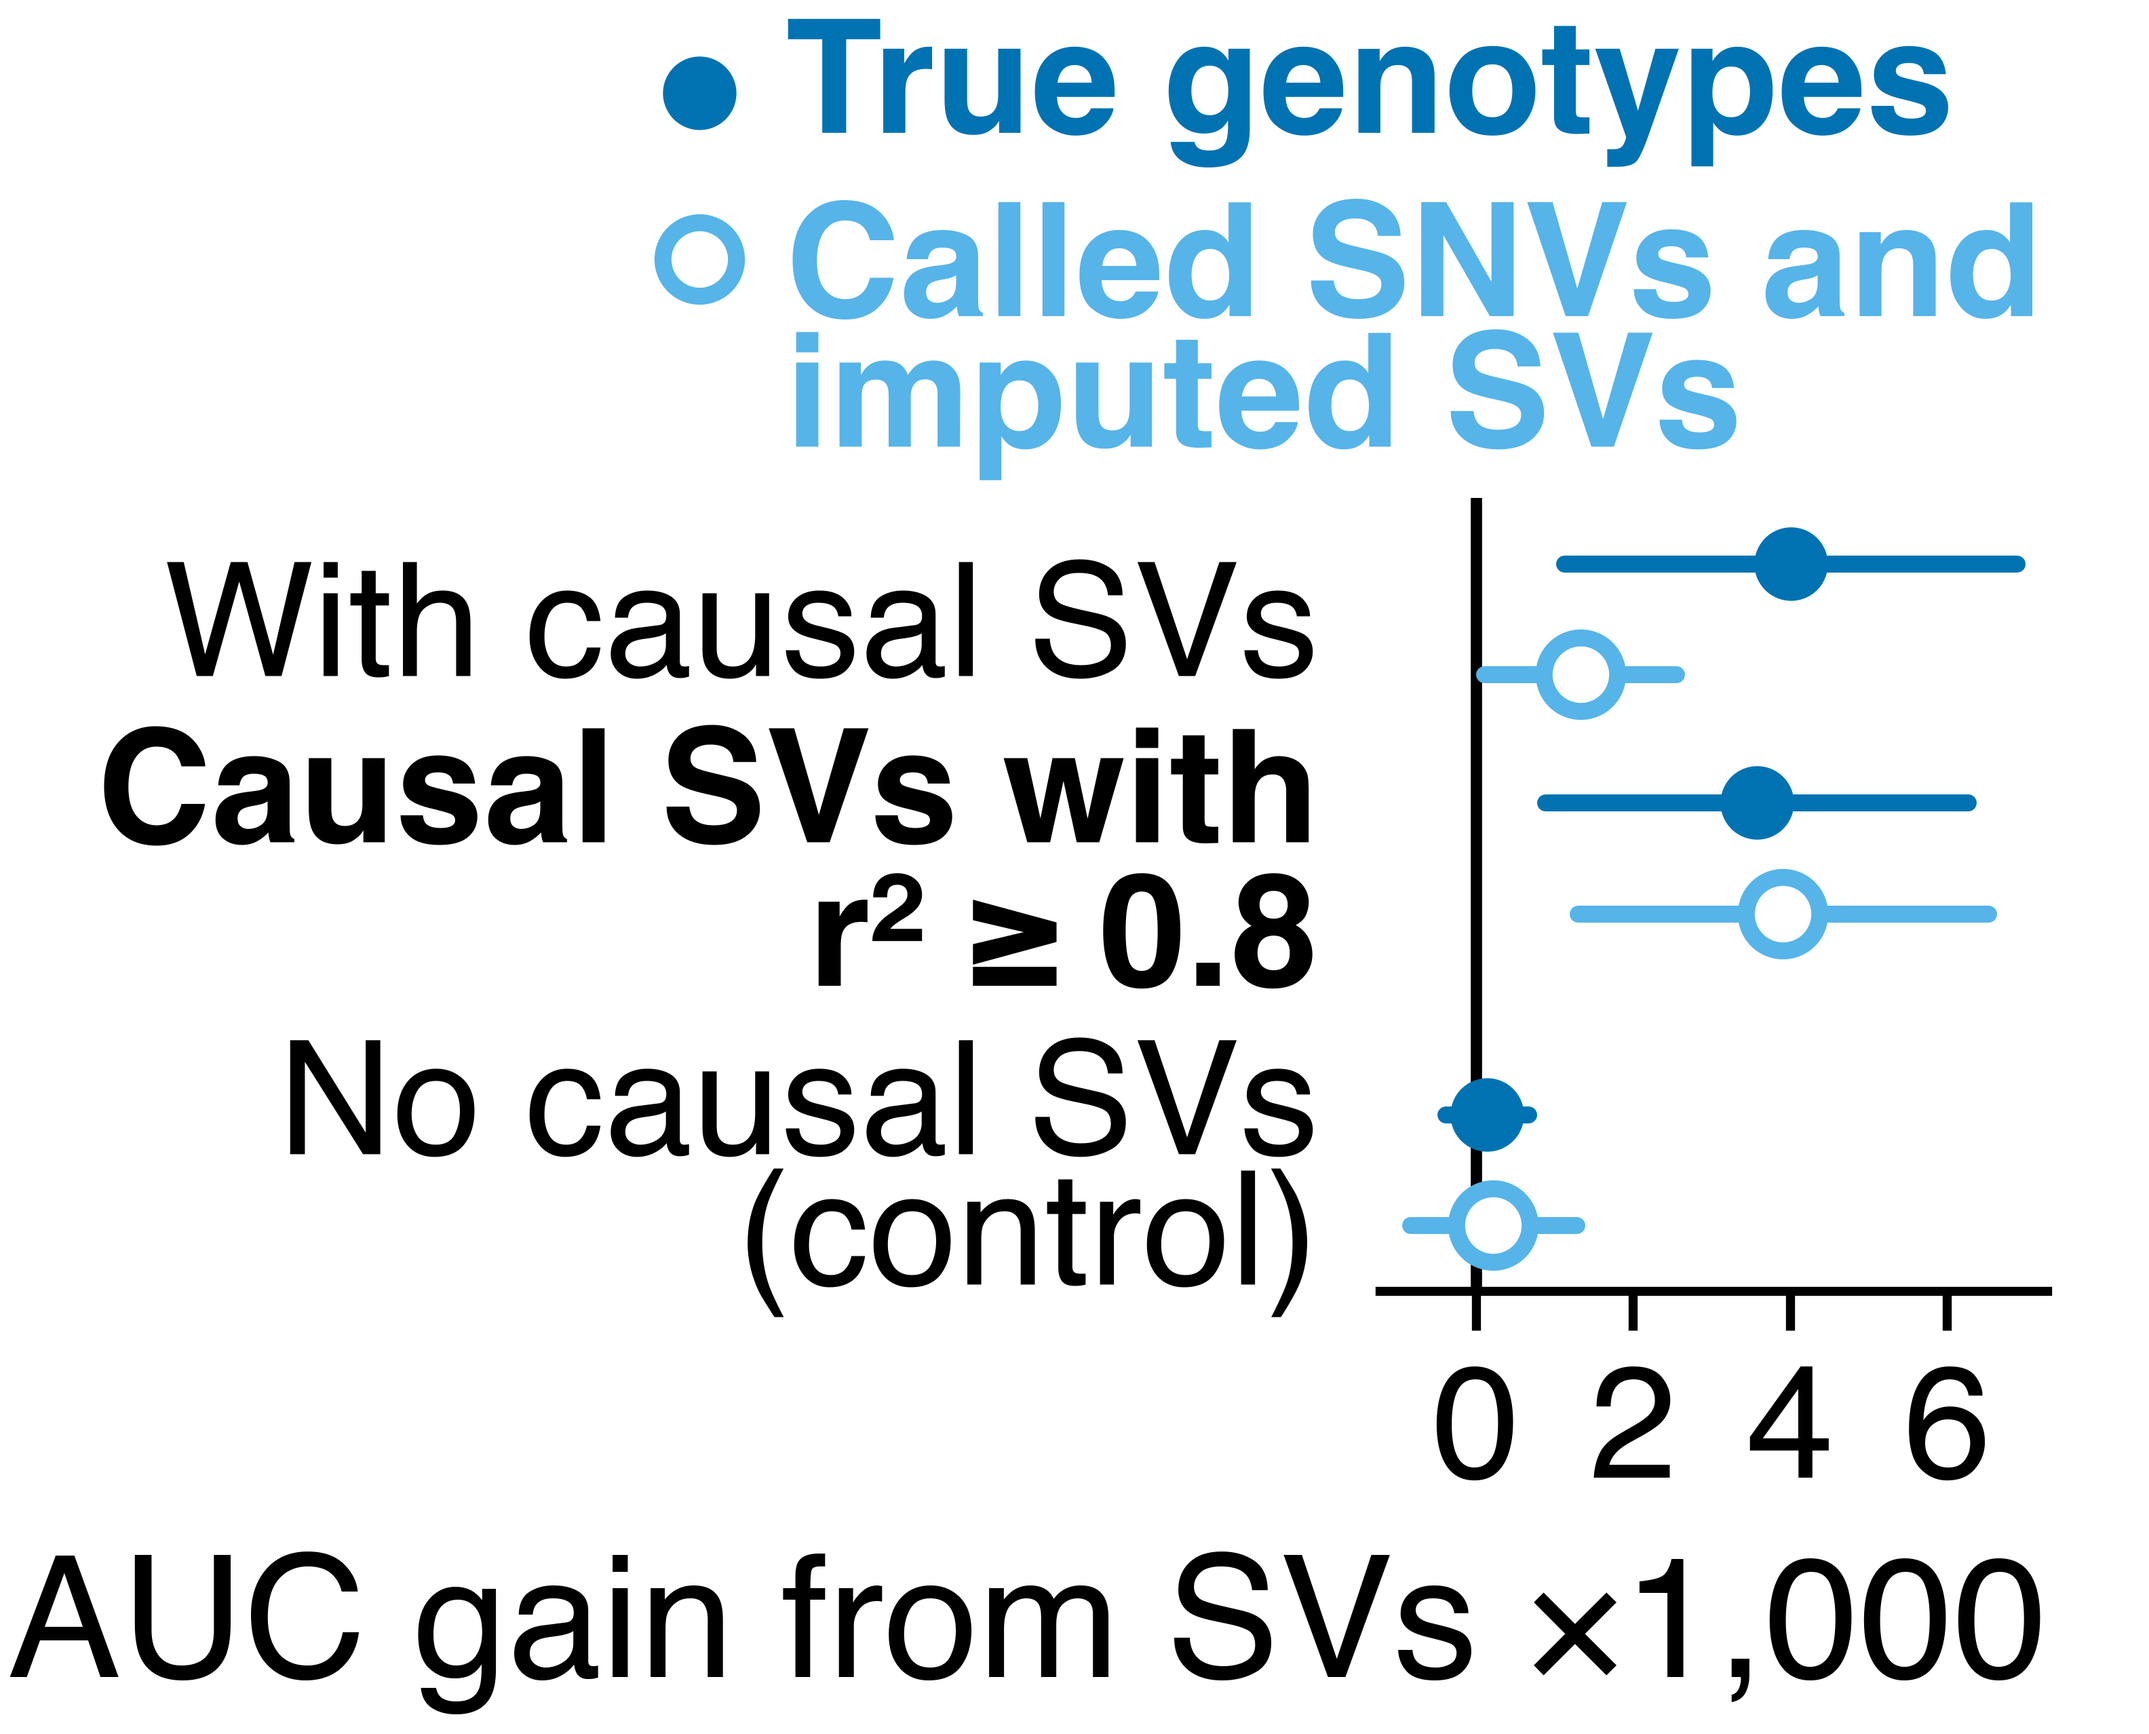
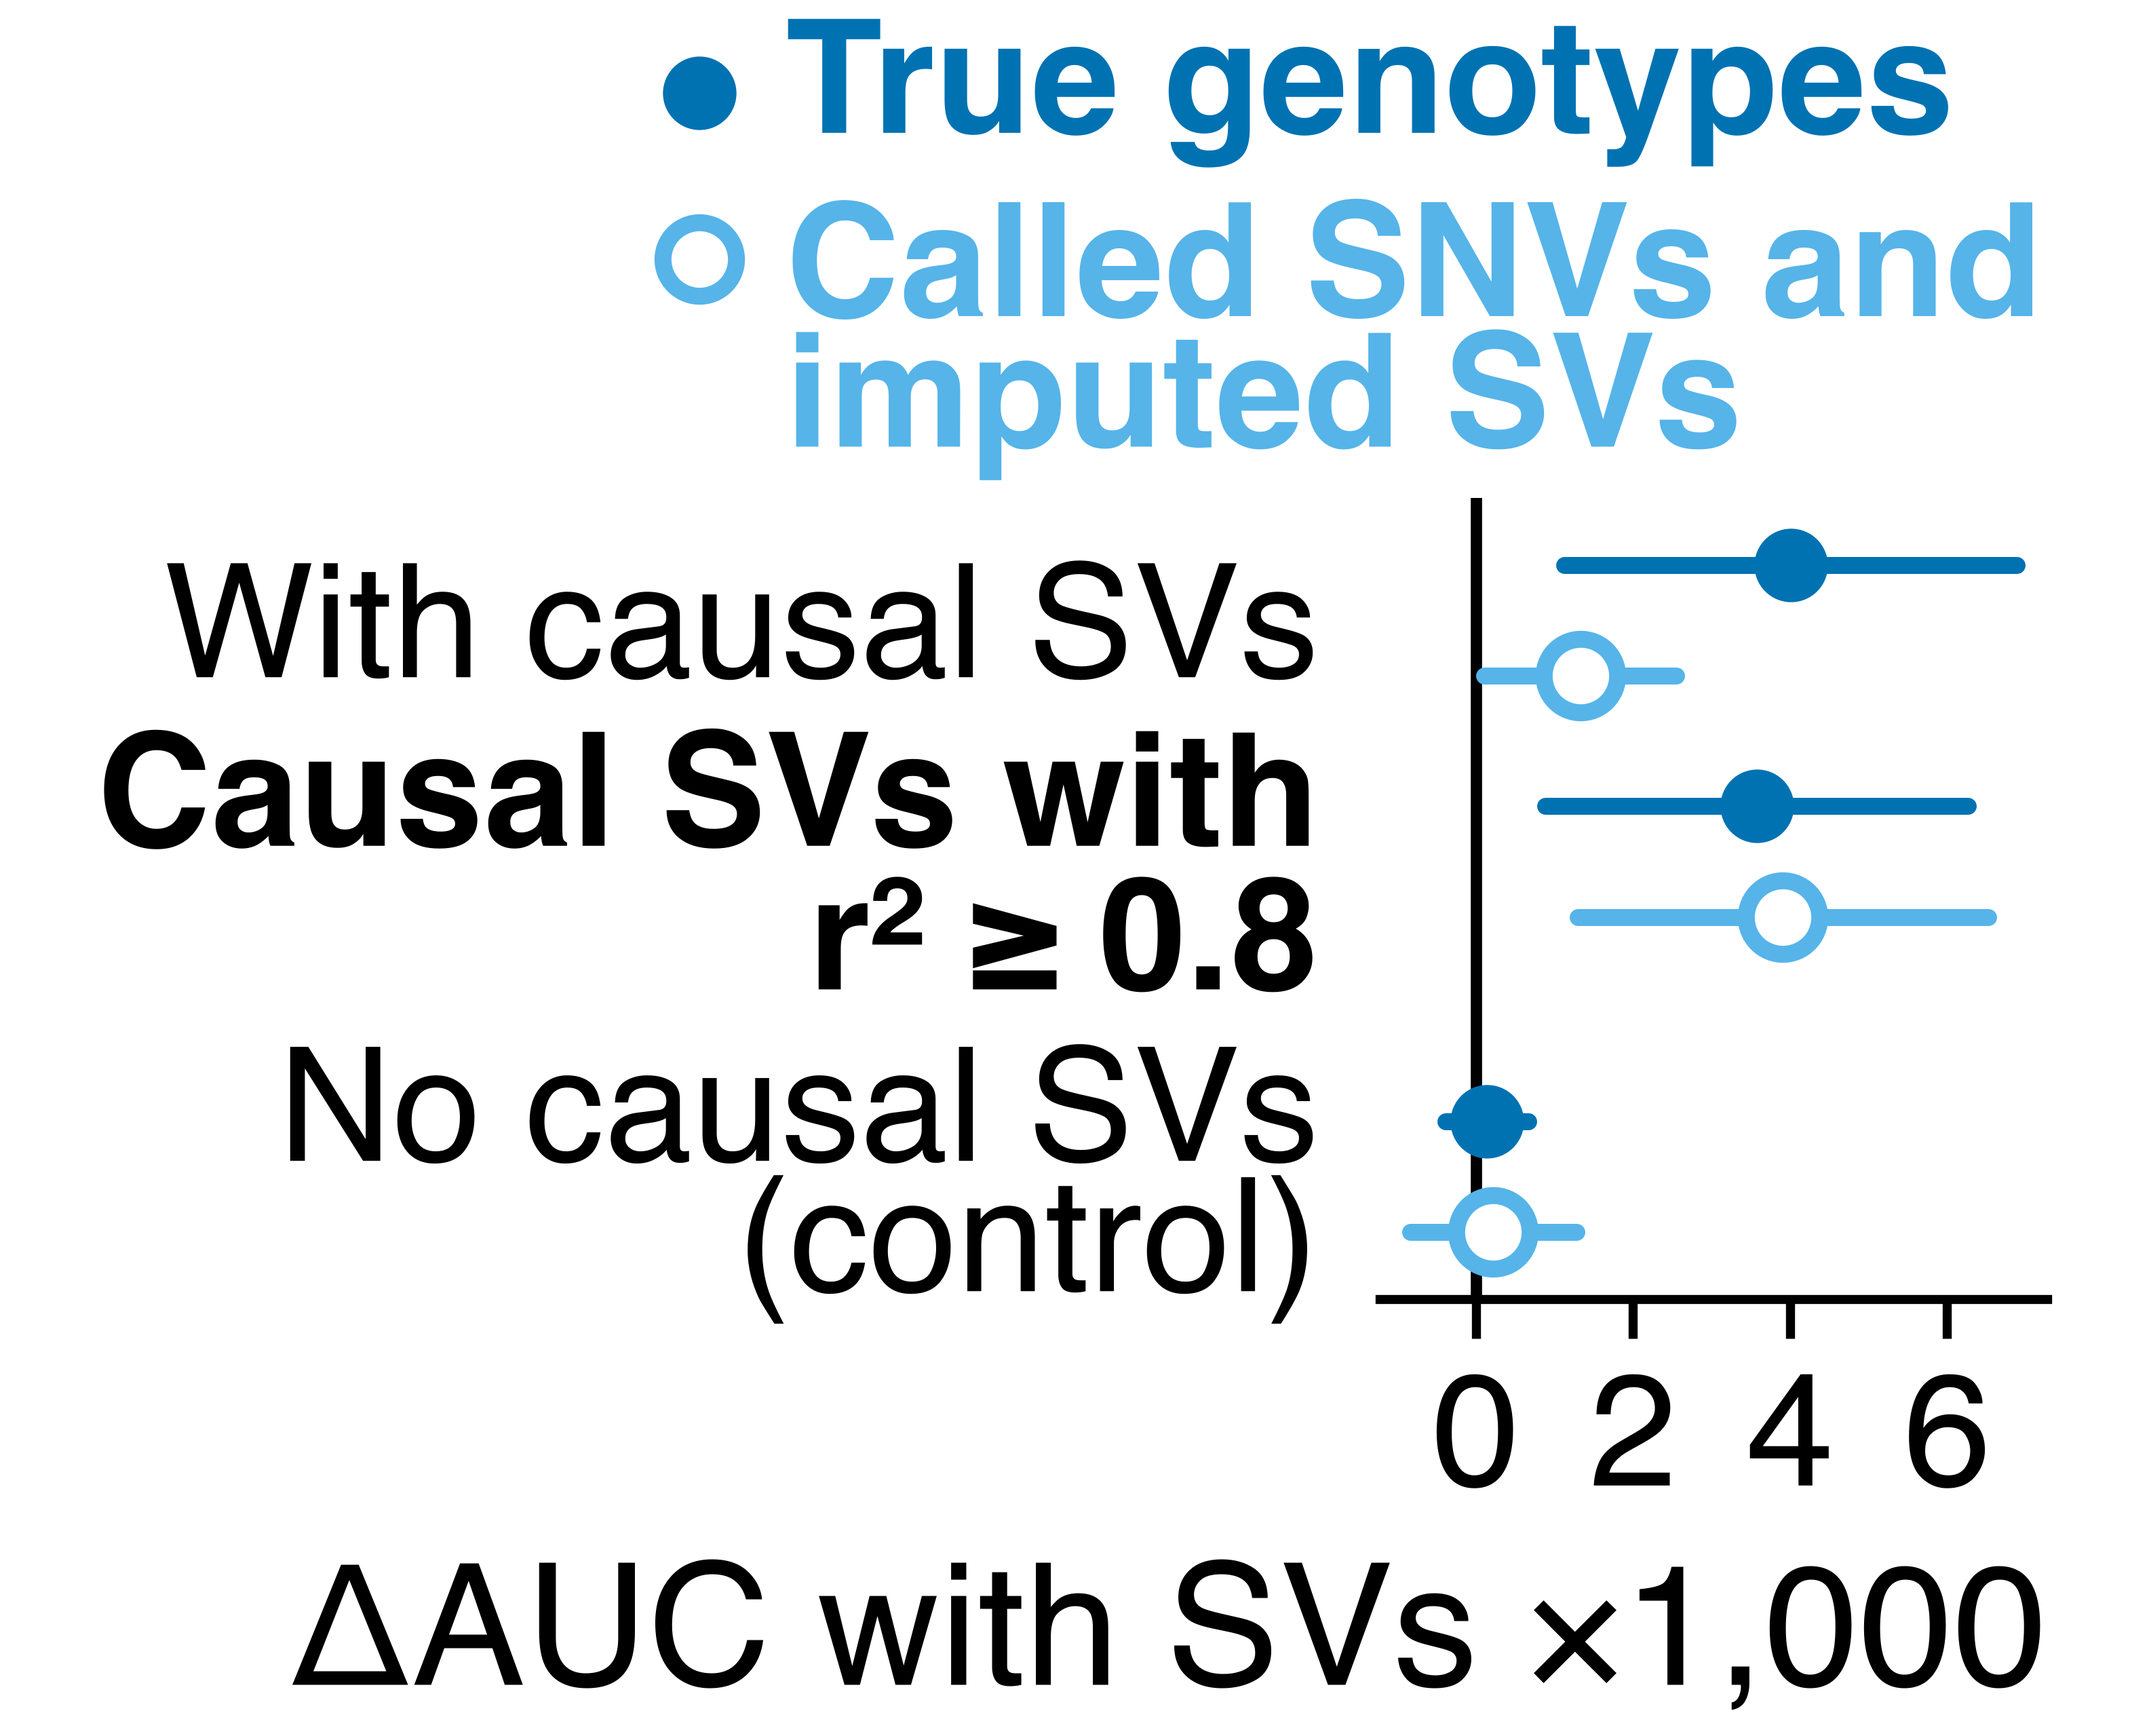
Discussion bullet 3 states the All of Us overall estimate, then its reading as a second sentence: "In All of Us, imputed SVs changed r² by +0.03% (95% CI −0.11 to 0.17%) across 5 traits. These traits may have few SVs with large effects or poorly imputed causal SVs." (docs/poster/ashg2026/build_pptx.
The simulation SV-gain forest labels its ticks as the gain times 1,000 (sim_gallery.py GAIN_SCALE), with the step chosen from each label's own width. Its 3.3 in axis now shows four ticks (0, 2, 4, 6) where it showed only "0". The tests follow the new bullet. test_poster_figures still has six failures in the All of Us figure tests, whose figure another agent is restructuring.

Claude-Session: https://claude.ai/code/session_01XTX1JUgLVteQ3pwSnr9aa6

diff --git a/tests/test_poster_figures.py b/tests/test_poster_figures.py
@@ -366,6 +366,6 @@ def test_the_discussion_states_the_common_all_of_us_gain_only_when_it_is_given(m
     (tmp_path / "aou_numbers.json").write_text(json.dumps({"matched": {"rows": [], "common": {
         "relative": -2.0, "relative_lower": -4.0, "relative_upper": 0.5, "relative_bound": 0.1, "traits": 10}}}))
     # the primary's common g with its 95% interval
-    assert build_pptx.aou_result() == ["In All of Us, imputed SVs changed r² by −2.00% (95% CI −4.00 to 0.50%) over "
-                                       "10 traits, so these traits have few SVs with large effects or poorly imputed "
-                                       "causal SVs."]
+    assert build_pptx.aou_result() == ["In All of Us, imputed SVs changed r² by −2.00% (95% CI −4.00 to 0.50%) "
+                                       "across 10 traits. These traits may have few SVs with large effects or poorly "
+                                       "imputed causal SVs."]

diff --git a/docs/poster/ashg2026/build_pptx.py b/docs/poster/ashg2026/build_pptx.py
@@ -193,8 +193,8 @@ def aou_result() -> list[str]:
     if not common:
         return []
     return [f"In All of Us, imputed SVs changed r² by {percent(common['relative'], sign=True)}% (95% CI "
-            f"{percent(common['relative_lower'])} to {percent(common['relative_upper'])}%) over {common['traits']} "
-            "traits, so these traits have few SVs with large effects or poorly imputed causal SVs."]
+            f"{percent(common['relative_lower'])} to {percent(common['relative_upper'])}%) across {common['traits']} "
+            "traits. These traits may have few SVs with large effects or poorly imputed causal SVs."]
 
 
 # ------------------------------------------------------------------ DrawingML

diff --git a/tests/test_poster_simulation.py b/tests/test_poster_simulation.py
@@ -187,7 +187,8 @@ def test_aou_result_states_the_common_change_over_its_traits(monkeypatch, tmp_pa
     poster = poster_module(monkeypatch, tmp_path)
     matched_common(poster, monkeypatch, tmp_path, COMMON)
     [sentence] = poster.aou_result()
-    assert "changed r² by +0.03% (95% CI −0.11 to 0.17%) over 5 traits," in sentence
+    assert sentence == ("In All of Us, imputed SVs changed r² by +0.03% (95% CI −0.11 to 0.17%) across 5 traits. "
+                        "These traits may have few SVs with large effects or poorly imputed causal SVs.")
 
 
 def test_references_sit_beside_the_qr_code_and_fill_the_discussions_height(monkeypatch, tmp_path):

diff --git a/docs/poster/ashg2026/sim_gallery.py b/docs/poster/ashg2026/sim_gallery.py
@@ -1101,7 +1101,7 @@ POSTER_GENOTYPES_HEIGHT = POSTER_GAIN_HEIGHT
 """Inches: the imputation figure's height, the SV gain forest's, so the two sit flush side by side."""
 GAIN_WEIGHT = 1.0
 """The SV gain forest's marks and intervals relative to the poster's (POSTER_MARK, POSTER_BAR)."""
-GAIN_TITLE, GAIN_SCALE = "AUC gain from SVs ×1,000", 1000
+GAIN_TITLE, GAIN_SCALE = "ΔAUC with SVs ×1,000", 1000
 """The SV gain forest's x axis title, short enough for one line, and the factor its tick labels show the gain times,
 so three or more short labels fit along the axis."""
 FOREST_SIZES = SIZES[:3]
